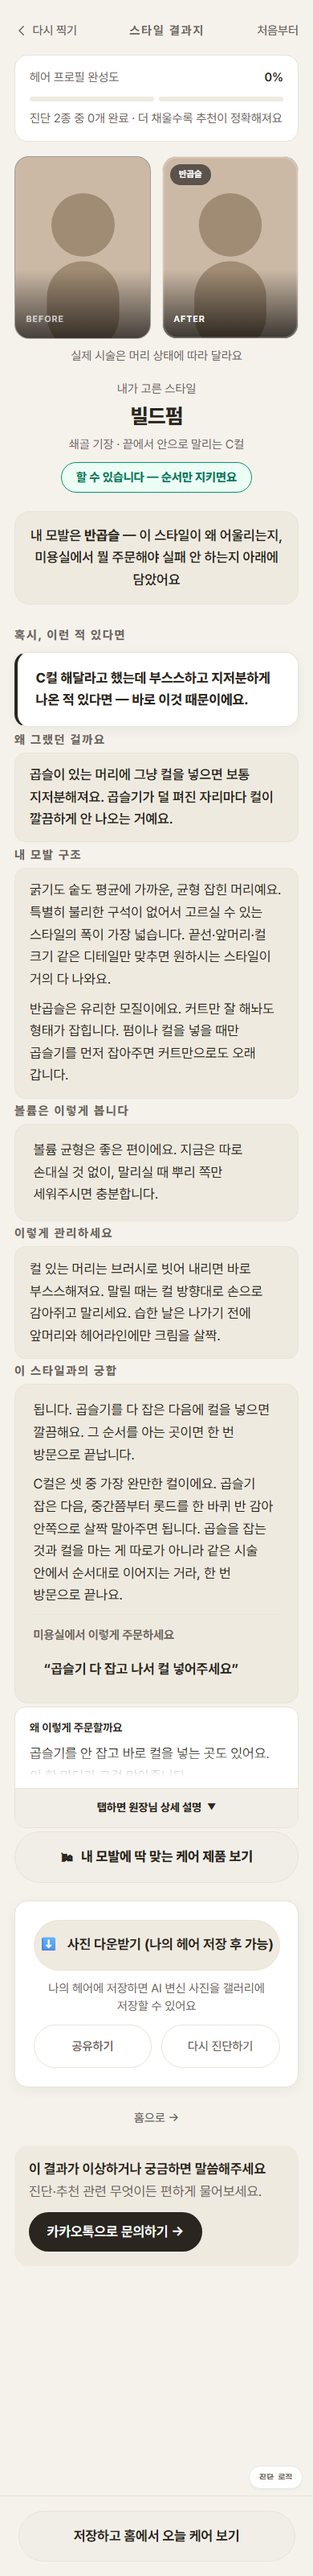
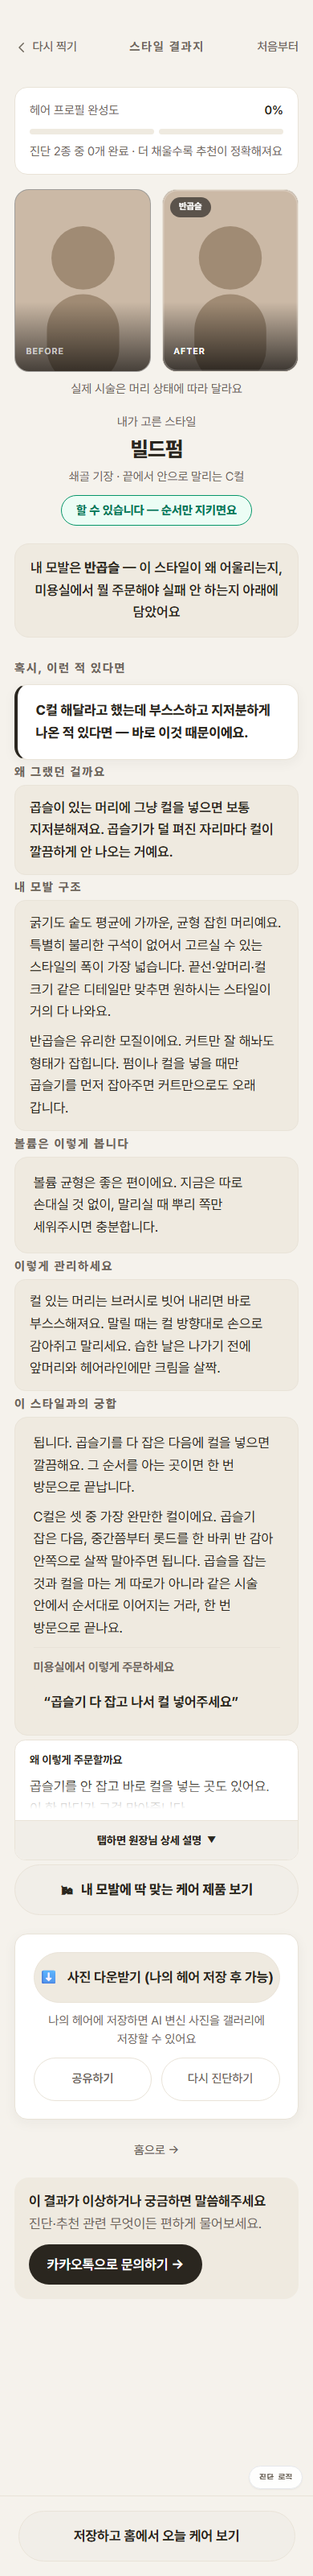
fix(ui-redesign): Codex 그룹B 반영 — 일기 카드 본문17·하단탭15·터치
- my-diary 카드 제목·요약(headline·diagnosisSummary·제품설명) 15→17,
  '진단 데이터 보기' 토글 터치 min-h-14.
- BottomNav 라벨 13→15(전역).
- 결과지 드라이 순서 li 16→17, 헤더 '다시 찍기/처음부터' 링크 터치 min-h-14.
- 로직·계측·선공개 구조·문장 무변경. tsc 0.

Changed region(s): [[0.0308, 0.0, 0.9538, 0.9062]]

diff --git a/app/my-diary/page.tsx b/app/my-diary/page.tsx
@@ -277,7 +277,7 @@ function DiaryCard({ entry, index, onOpenModal }: { entry: DiaryEntry; index: nu
         {/* 접기/펼치기 */}
         <button
           onClick={() => setExpanded(v => !v)}
-          className="flex w-full items-center justify-between px-4 pb-3 text-[15px] transition-colors"
+          className="flex min-h-14 w-full items-center justify-between px-4 pb-3 text-[15px] transition-colors"
           style={{ color: "var(--ink-2)" }}
         >
           <span>진단 데이터 {expanded ? "접기" : "보기"}</span>
@@ -309,7 +309,7 @@ function DiaryCard({ entry, index, onOpenModal }: { entry: DiaryEntry; index: nu
               <p className="text-[15px] font-bold uppercase tracking-wider" style={{ color: "var(--ink-2)" }}>
                 {hint.category}
               </p>
-              <p className="truncate text-[15px] font-semibold" style={{ color: "var(--ink)" }}>
+              <p className="truncate text-[17px] font-semibold" style={{ color: "var(--ink)" }}>
                 이 진단에 맞는 제품 보기
               </p>
             </div>
@@ -352,7 +352,7 @@ function DamageDiaryCard({ entry, index }: { entry: DamageDiaryEntry; index: num
           <p className="shrink-0 text-[15px]" style={{ color: "var(--ink-2)" }}>{date}</p>
         </div>
 
-        <p className="px-4 pb-3 text-[15px] leading-relaxed" style={{ color: "var(--ink)" }}>
+        <p className="px-4 pb-3 text-[17px] leading-relaxed" style={{ color: "var(--ink)" }}>
           {entry.headline}
         </p>
 
@@ -372,7 +372,7 @@ function DamageDiaryCard({ entry, index }: { entry: DamageDiaryEntry; index: num
             <div className="flex items-center gap-3 px-3 py-3">
               <span className="text-2xl">{entry.product.emoji}</span>
               <div className="min-w-0 flex-1">
-                <p className="truncate text-[15px] font-semibold" style={{ color: "var(--ink)" }}>
+                <p className="truncate text-[17px] font-semibold" style={{ color: "var(--ink)" }}>
                   {entry.product.name}
                 </p>
                 <p className="truncate text-[15px]" style={{ color: "var(--ink-2)" }}>
@@ -422,7 +422,7 @@ function HairQuizDiaryCard({ entry, index }: { entry: HairQuizDiaryEntry; index:
         </div>
 
         {entry.diagnosisSummary && (
-          <p className="px-4 pb-3 text-[15px] leading-relaxed" style={{ color: "var(--ink)" }}>
+          <p className="px-4 pb-3 text-[17px] leading-relaxed" style={{ color: "var(--ink)" }}>
             {entry.diagnosisSummary}
           </p>
         )}
@@ -490,7 +490,7 @@ function BangsDiaryCard({ entry, index }: { entry: BangsDiaryEntry; index: numbe
           <p className="shrink-0 text-[15px]" style={{ color: "var(--ink-2)" }}>{date}</p>
         </div>
 
-        <p className="px-4 pb-2 text-[15px] leading-relaxed" style={{ color: "var(--ink)" }}>
+        <p className="px-4 pb-2 text-[17px] leading-relaxed" style={{ color: "var(--ink)" }}>
           {entry.diagnosisSummary}
         </p>
         <p className="px-4 pb-1 text-[15px]" style={{ color: "var(--ink-2)" }}>

diff --git a/app/style/result/page.tsx b/app/style/result/page.tsx
@@ -642,14 +642,14 @@ export default function StyleResultPage() {
 
           {/* 헤더 */}
           <div className="flex items-center justify-between pb-4">
-            <Link href="/style/upload" className="flex items-center gap-1 text-[15px] font-medium text-ink-2 hover:text-ink transition-colors">
+            <Link href="/style/upload" className="-ml-1 flex min-h-14 items-center gap-1 px-1 text-[15px] font-medium text-ink-2 hover:text-ink transition-colors">
               <svg className="w-4 h-4" fill="none" viewBox="0 0 24 24" stroke="currentColor" strokeWidth={2}>
                 <path strokeLinecap="round" strokeLinejoin="round" d="M15 19l-7-7 7-7" />
               </svg>
               다시 찍기
             </Link>
             <span className="text-[15px] font-bold uppercase tracking-[0.12em] text-ink-2">스타일 결과지</span>
-            <Link href="/style" className="text-[15px] font-medium text-ink-2 hover:text-ink transition-colors">처음부터</Link>
+            <Link href="/style" className="-mr-1 flex min-h-14 items-center px-1 text-[15px] font-medium text-ink-2 hover:text-ink transition-colors">처음부터</Link>
           </div>
 
           {/* A-1 완성도 게이지 — 결과지 상단 */}
@@ -751,7 +751,7 @@ export default function StyleResultPage() {
                         <FadePreview title={title?.text ?? "정수리 드라이 · 순서 그대로"}>
                           <ol className="list-decimal space-y-1.5 pl-5">
                             {steps.map((e) => (
-                              <li key={e.id} className="text-[16px] leading-relaxed text-ink"><Rich html={e.text} /></li>
+                              <li key={e.id} className="text-[17px] leading-relaxed text-ink"><Rich html={e.text} /></li>
                             ))}
                           </ol>
                           {note && <p className="mt-2 text-[15px] text-ink-2">{note.text}</p>}

diff --git a/app/components/layout/BottomNav.tsx b/app/components/layout/BottomNav.tsx
@@ -51,7 +51,7 @@ export default function BottomNav() {
                 aria-hidden
               />
               <span
-                className={`text-[13px] ${active ? "font-medium text-ink" : "font-normal text-ink-2"}`}
+                className={`text-[15px] ${active ? "font-medium text-ink" : "font-normal text-ink-2"}`}
               >
                 {item.label}
               </span>
